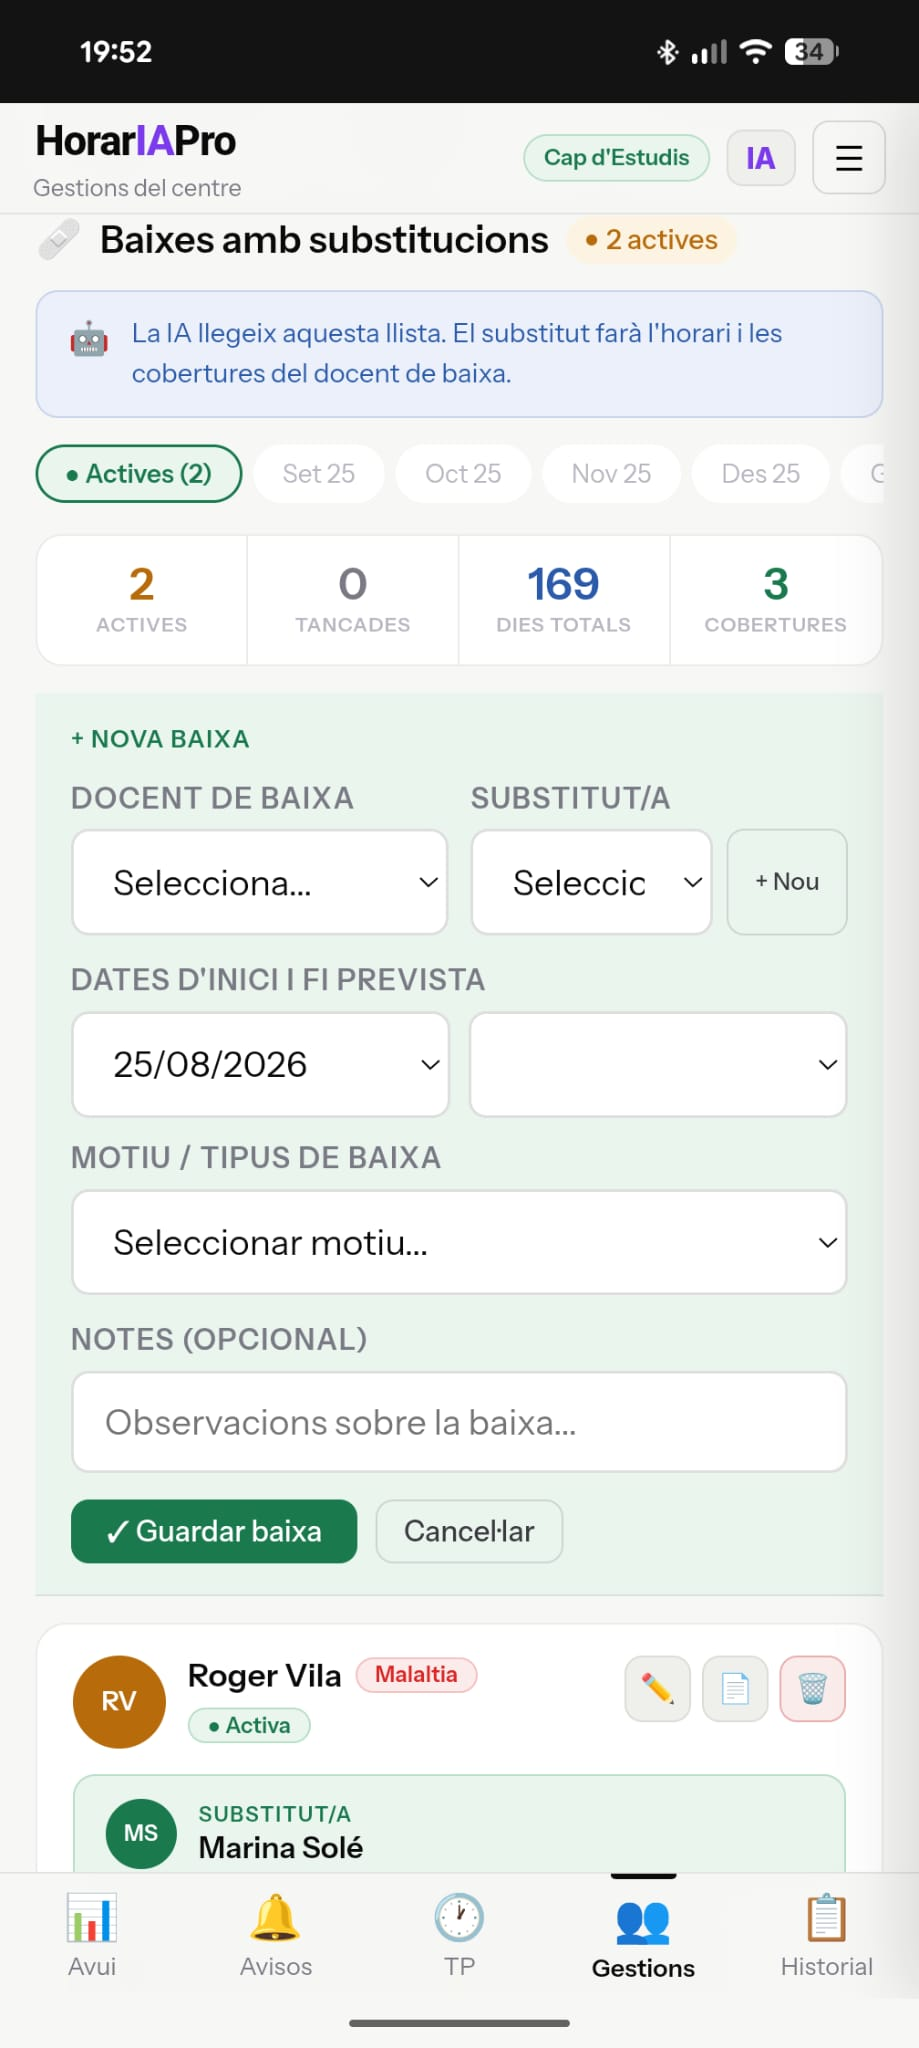
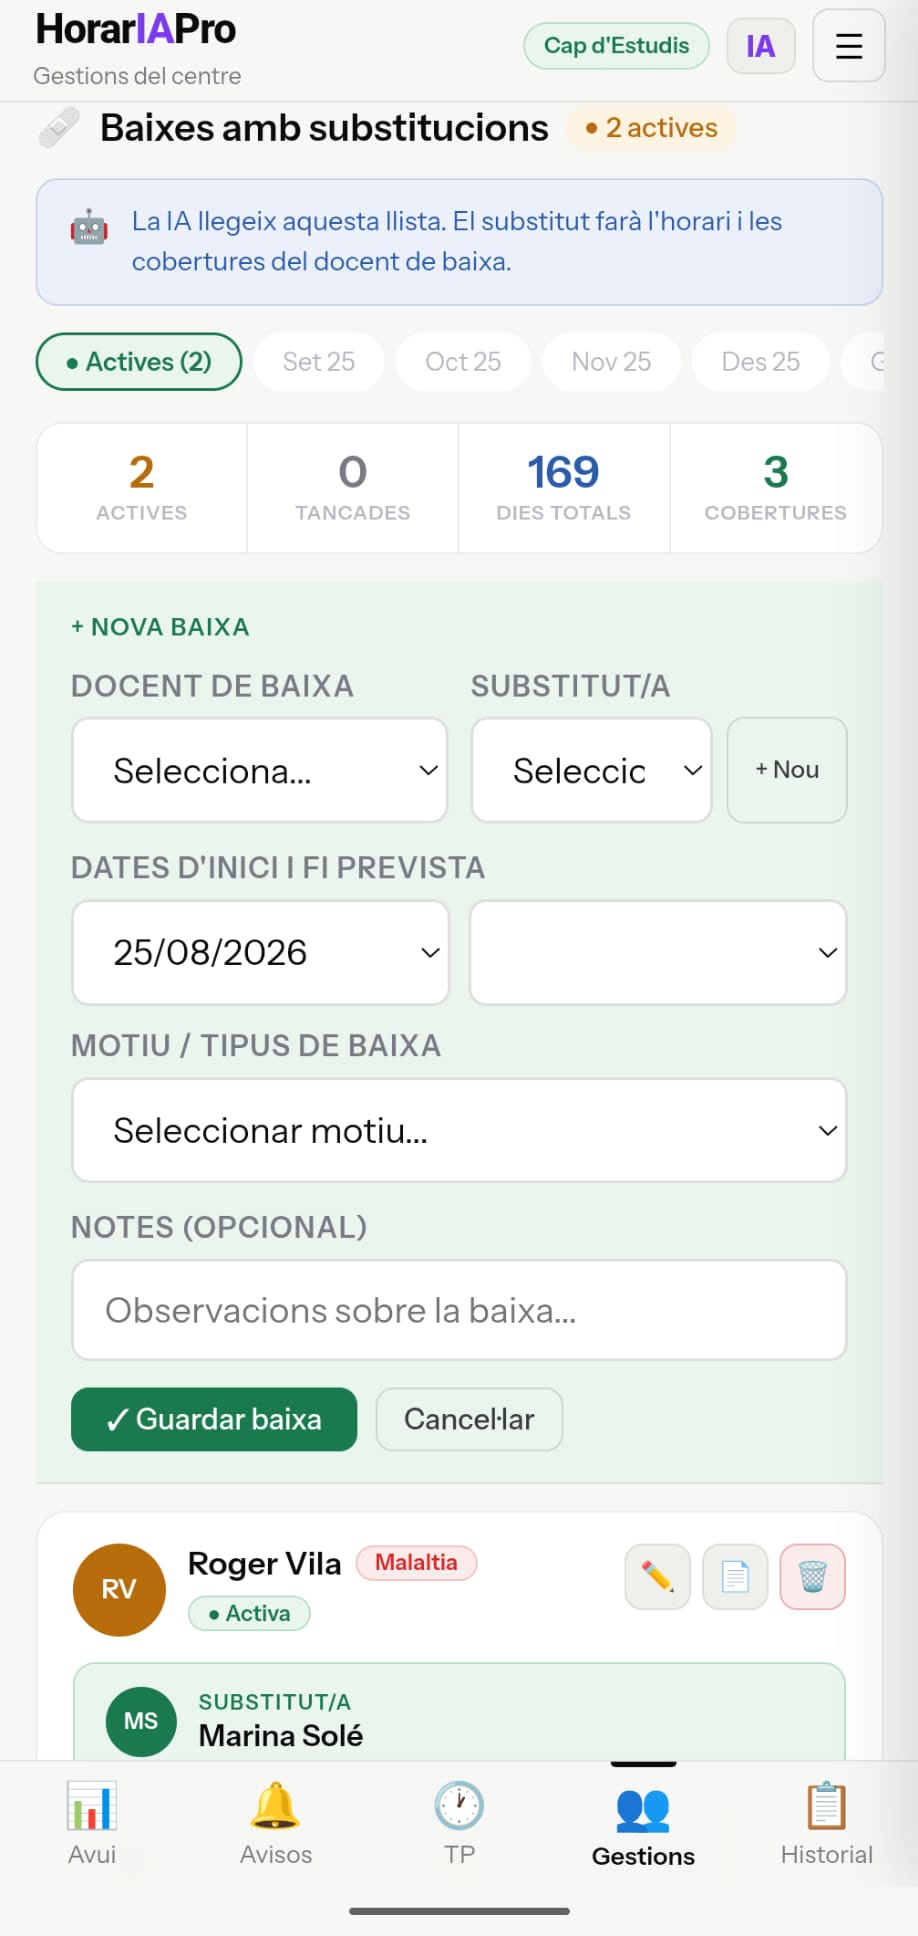
Etiqueta els parells d'imatges de compactació i neteja les captures de baixes
- Afegeix etiquetes "Regles i normes" / "Generació IA" a la funcionalitat 9
  perquè el selector mòbil no mostre "Element 1/2".
- Retalla la barra d'estat del mòbil (hora, bateria, wifi) de les captures
  de la funcionalitat 10, igual que la resta de captures del lloc.

diff --git a/index.html b/index.html
@@ -341,7 +341,7 @@
     .feature-media-item.tp-docent { aspect-ratio: 970/2048; }
     .feature-media-item.pati-docent { aspect-ratio: 969/2048; }
     .feature-media-item.jornada-intensiva { aspect-ratio: 970/2048; }
-    .feature-media-item.baixes-shot { aspect-ratio: 919/2048; }
+    .feature-media-item.baixes-shot { aspect-ratio: 918/1936; }
     .feature-media-item.pati-cap video { transform: scale(1.052) translateY(-2.47%); }
     /* "Manualment" manté la seua pròpia proporció (sense retallar contingut) i queda centrat verticalment respecte als altres */
     .feature-media-item.manual { aspect-ratio: 1006/1620; align-self: center; }
@@ -1210,9 +1210,11 @@
         <div class="feature-media-pair" style="grid-template-columns:1fr 1fr;">
           <div class="feature-media-item jornada-intensiva has-lightbox" onclick="openMediaLightbox('images/jornada-intensiva-1.jpeg','image')">
             <img src="images/jornada-intensiva-1.jpeg" alt="Compactació per jornada intensiva" loading="lazy" />
+            <span class="feature-media-label">Regles i normes</span>
           </div>
           <div class="feature-media-item jornada-intensiva has-lightbox" onclick="openMediaLightbox('images/jornada-intensiva-2.jpeg','image')">
             <img src="images/jornada-intensiva-2.jpeg" alt="Regles de compactació per jornada intensiva" loading="lazy" />
+            <span class="feature-media-label">Generació IA</span>
           </div>
         </div>
       </div>
